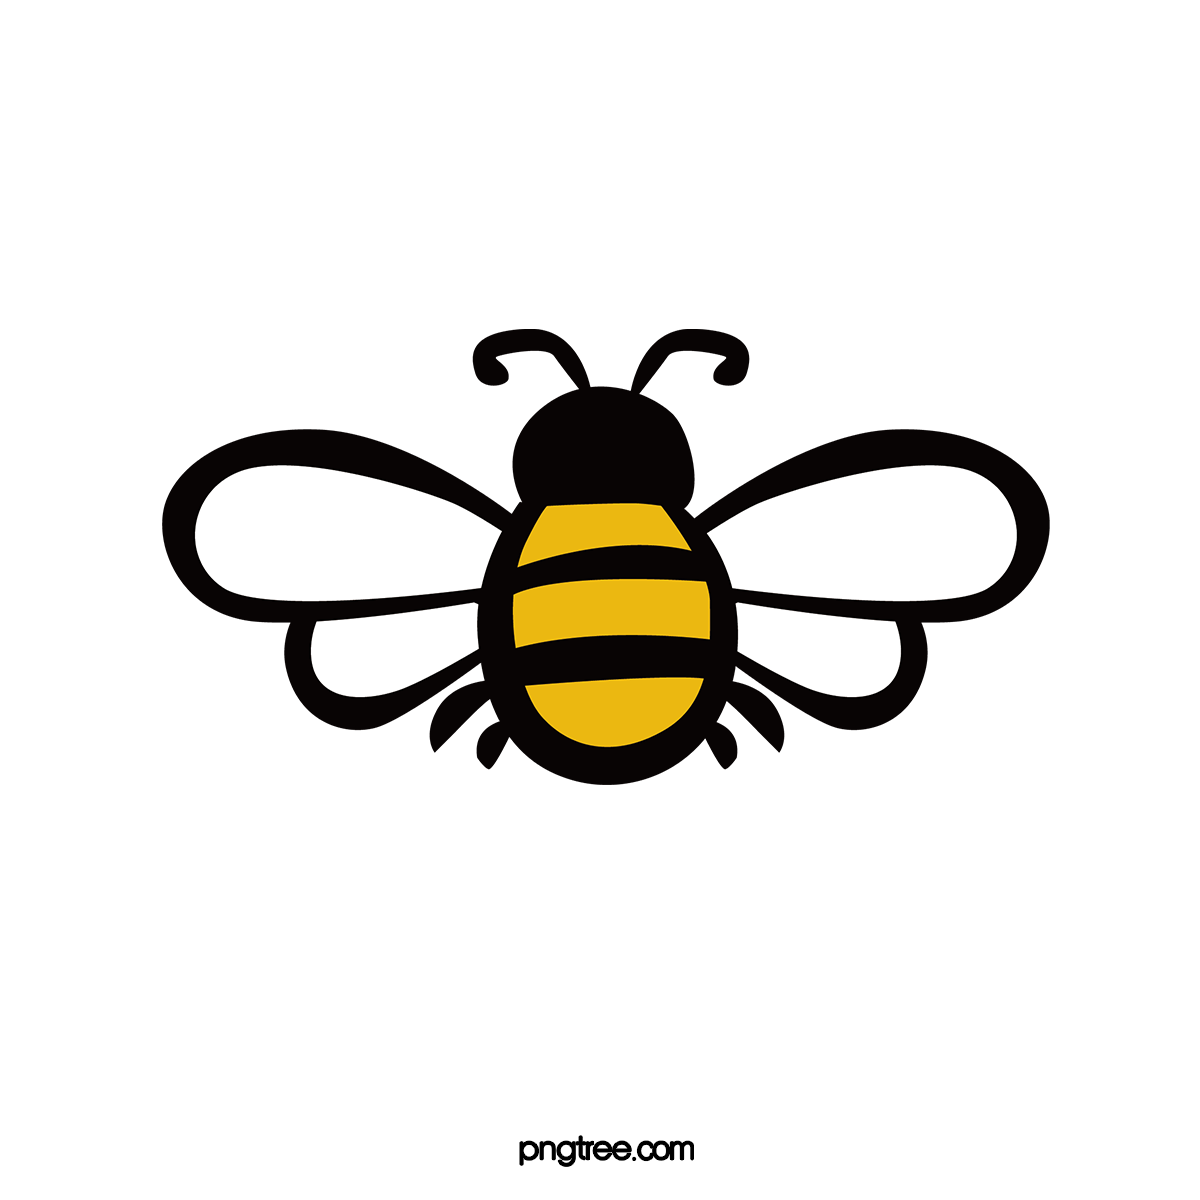
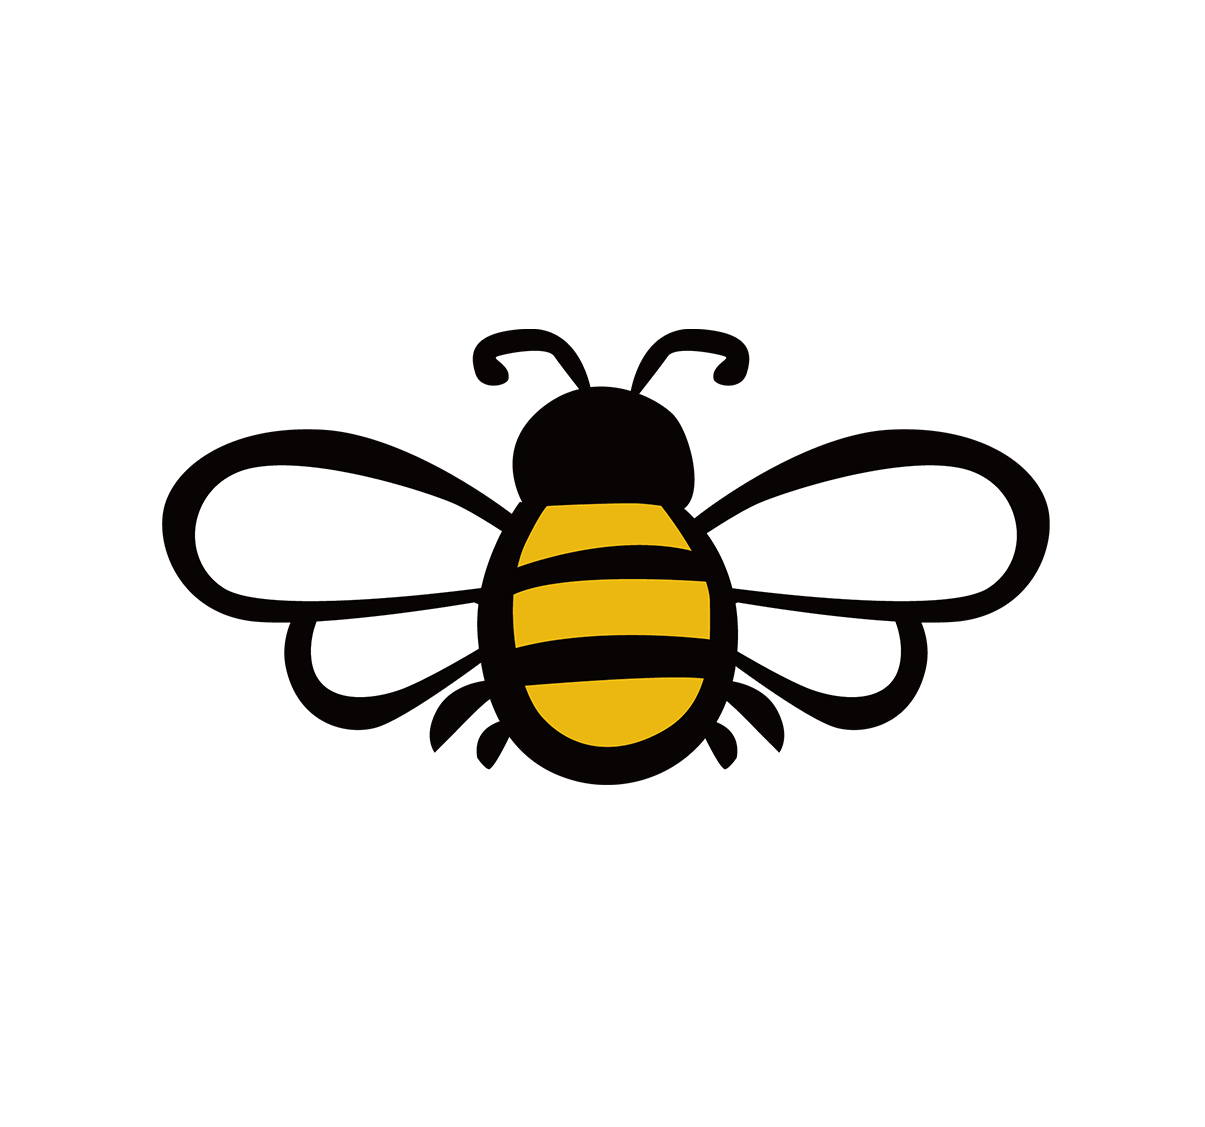
bee cursor added to all pages

Changed region(s): [[0.1233, 0.2484, 0.8942, 0.7143], [0.4317, 0.9317, 0.5858, 0.9938]]

diff --git a/src/components/BeeCursor.tsx b/src/components/BeeCursor.tsx
@@ -1,0 +1,45 @@
+"use client";
+
+import { useEffect } from "react";
+import Image from "next/image";
+
+export default function BeeCursor() {
+  useEffect(() => {
+    const bee = document.getElementById("bee");
+
+    const handleMouseMove = (e: MouseEvent) => {
+      if (bee) {
+        const x = e.clientX;
+        const y = e.clientY;
+        bee.style.left = `${x}px`;
+        bee.style.top = `${y}px`;
+        bee.classList.remove("hidden");
+      }
+    };
+
+    const handleMouseLeave = () => {
+      if (bee) {
+        bee.classList.add("hidden");
+      }
+    };
+
+    document.addEventListener("mousemove", handleMouseMove);
+    document.addEventListener("mouseleave", handleMouseLeave);
+
+    return () => {
+      document.removeEventListener("mousemove", handleMouseMove);
+      document.removeEventListener("mouseleave", handleMouseLeave);
+    };
+  }, []);
+
+  return (
+    <div id="bee" className="hidden fixed pointer-events-none z-50">
+      <Image
+        src="/images/bee.png"
+        alt="Bee"
+        width={50}
+        height={50}
+      />
+    </div>
+  );
+}

diff --git a/src/app/(root)/library/page.tsx b/src/app/(root)/library/page.tsx
@@ -16,6 +16,9 @@ import { useAuth } from "@clerk/nextjs";
 import { FolderPen, Trash2 } from "lucide-react";
 import EditModal from "@/components/EditModal";
 import DeleteModal from "@/components/DeleteModal";
+import dynamic from "next/dynamic";
+
+const BeeCursor = dynamic(() => import("@/components/BeeCursor"), { ssr: false });
 
 interface FlashcardSet {
   id: string;
@@ -102,6 +105,7 @@ export default function Library() {
 
   return (
     <div className="bg-[#5D4037] text-[#FFC107] min-h-screen">
+      <BeeCursor/>
       <div className="container flex flex-row mx-auto p-8 items-center">
         <h1 className="text-start text-2xl font-bold pr-4">Your Flashcards</h1>
         <p className="text-2xl font-medium">{flashcardSets.length}</p>

diff --git a/src/app/(root)/learn/[id]/page.tsx b/src/app/(root)/learn/[id]/page.tsx
@@ -1,5 +1,8 @@
 import { createCustomer, hasSubscription } from "@/lib/stripe";
 import LearnFlashcard from "@/components/LearnFlashcard";
+import dynamic from "next/dynamic";
+
+const BeeCursor = dynamic(() => import("@/components/BeeCursor"), { ssr: false });
 
 export default async function FlashcardSetPage() {
   const stripeCustomerId = await createCustomer();
@@ -8,6 +11,7 @@ export default async function FlashcardSetPage() {
   return (
     <div className="p-4 bg-[#5D4037] text-[#FFC107] flex flex-col min-h-screen justify-center items-center">
       <LearnFlashcard isSubscribed={isSubscribed} />
+    <BeeCursor/>
     </div>
   );
 }

diff --git a/src/app/page.tsx b/src/app/page.tsx
@@ -4,6 +4,9 @@ import { createCustomer, hasSubscription } from "@/lib/stripe";
 import { Card, CardContent, CardHeader } from "@/components/ui/card";
 import { Sparkle, Users, Book } from "lucide-react";
 import FlashcardSetsList from "@/components/FlashcardSetsList";
+import dynamic from "next/dynamic";
+
+const BeeCursor = dynamic(() => import("@/components/BeeCursor"), { ssr: false });
 
 export default async function Home() {
   const stripeCustomerId = await createCustomer();
@@ -63,6 +66,7 @@ export default async function Home() {
           </Card>
         </div>
       </section>
+      <BeeCursor/>
     </div>
   );
 }

diff --git a/src/app/(root)/explore/page.tsx b/src/app/(root)/explore/page.tsx
@@ -1,5 +1,8 @@
 import { createCustomer, hasSubscription } from "@/lib/stripe";
 import FlashcardSetsList from "@/components/FlashcardSetsList";
+import dynamic from "next/dynamic";
+
+const BeeCursor = dynamic(() => import("@/components/BeeCursor"), { ssr: false });
 
 export default async function Explore() {
   const stripeCustomerId = await createCustomer();
@@ -11,6 +14,7 @@ export default async function Explore() {
       <div className="flex flex-wrap justify-center">
         <FlashcardSetsList isSubscribed={isSubscribed} />
       </div>
+      <BeeCursor/>
     </div>
   );
 }

diff --git a/src/app/(root)/create/page.tsx b/src/app/(root)/create/page.tsx
@@ -1,5 +1,8 @@
 import CreateFlashcardsForm from "@/components/CreateFlashcardsForm";
 import { createCustomer, hasSubscription } from "@/lib/stripe";
+import dynamic from "next/dynamic";
+
+const BeeCursor = dynamic(() => import("@/components/BeeCursor"), { ssr: false });
 
 export default async function Create() {
   const stripeCustomerId = await createCustomer();
@@ -12,6 +15,7 @@ export default async function Create() {
           <CreateFlashcardsForm isSubscribed={isSubscribed} />
         </div>
       </div>
+      <BeeCursor/>
     </div>
   );
 }

diff --git a/src/app/(root)/pricing/page.jsx b/src/app/(root)/pricing/page.jsx
@@ -4,6 +4,9 @@ import {
   createCheckoutSessionURL,
 } from "@/lib/stripe";
 import PricingCards from "@/components/PricingCards";
+import dynamic from "next/dynamic";
+
+const BeeCursor = dynamic(() => import("@/components/BeeCursor"), { ssr: false });
 
 export default async function Pricing() {
   const stripeCustomerId = await createCustomer();
@@ -31,6 +34,7 @@ export default async function Pricing() {
           />
         </div>
       </div>
+      <BeeCursor/>
     </section>
   );
 }
